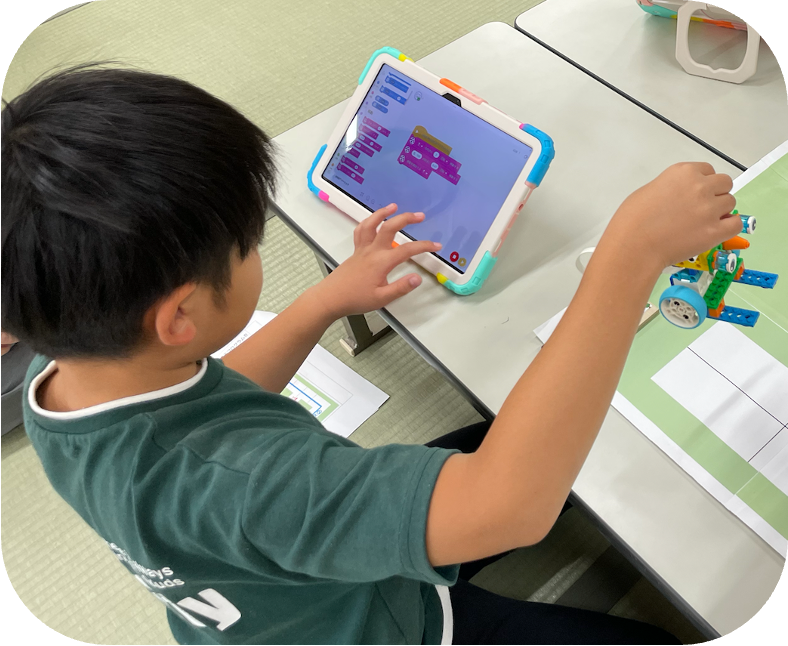
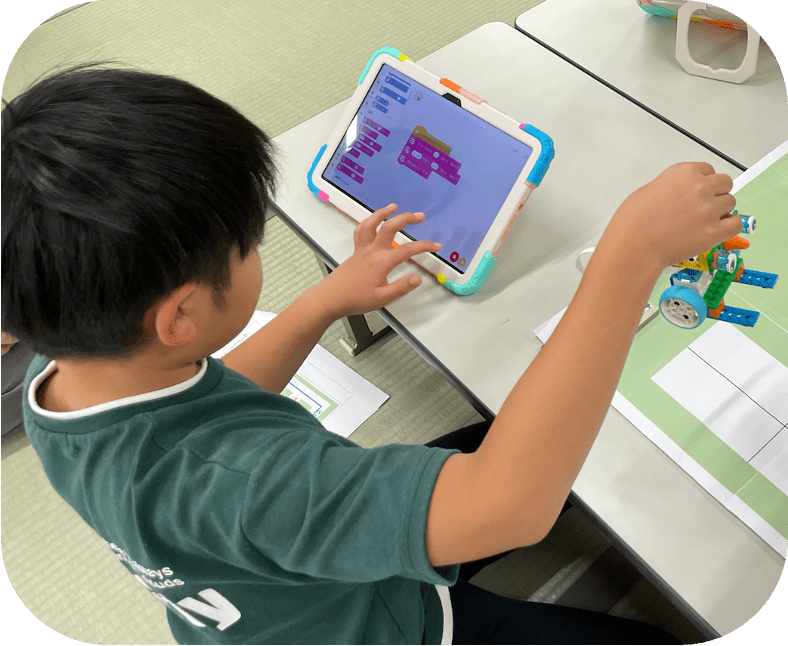
Compress img
画像を圧縮

Changed region(s): [[0.8528, 0.3715, 0.9442, 0.4644], [0.8832, 0.4644, 0.9442, 0.4954], [0.4873, 0.0619, 0.5178, 0.0929]]

diff --git a/coop_shintera_class.html b/coop_shintera_class.html
@@ -166,7 +166,7 @@ Mail: tetsuma.yaguchi@gmail.com
                         <div class="list-normal">
                             <div class="list">
                                 <figure>
-                                    <img src="images/coop_class9.png" alt="">
+                                    <img src="images/tomodachinchi21.png" alt="">
                                 </figure>
                                 <div class="text">
                                     <h4>論理的思考力を育むワークシート</h4>

diff --git a/service_tomodachinchi.html b/service_tomodachinchi.html
@@ -188,7 +188,7 @@ Mail: tetsuma.yaguchi@gmail.com
                         <div class="list-normal">
                             <div class="list">
                                 <figure>
-                                    <img src="images/coop_class5.png" alt="">
+                                    <img src="images/tomodachinchi21.png" alt="">
                                 </figure>
                                 <div class="text">
                                     <h4>友達と一緒に学ぶ</h4>
